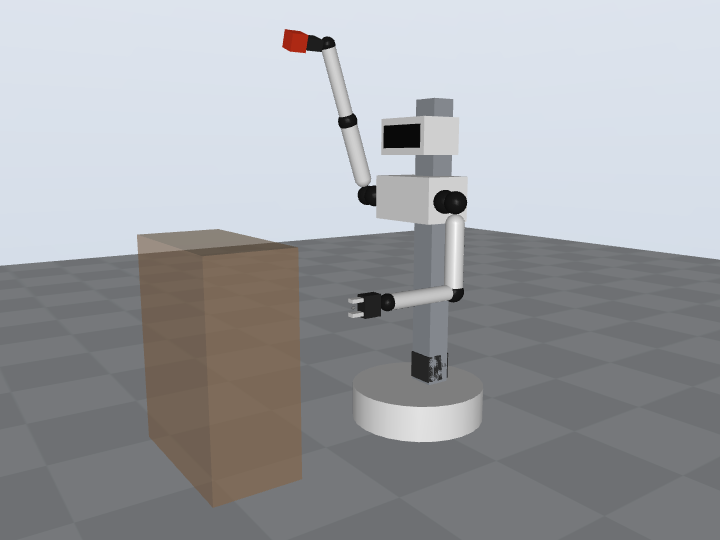
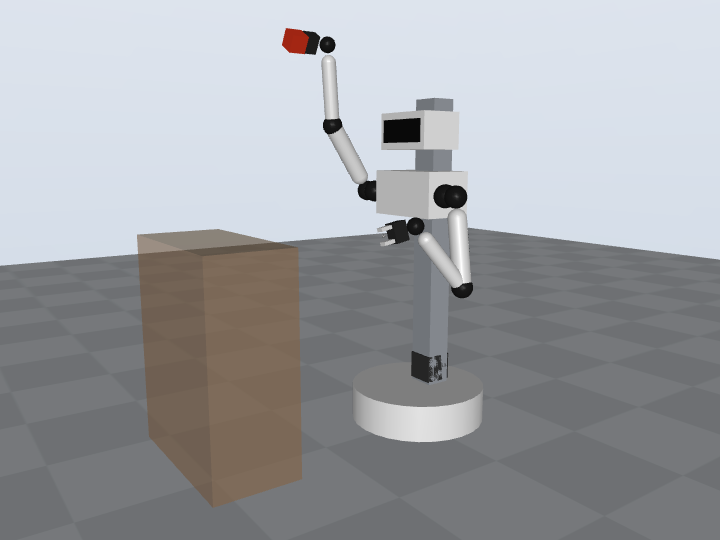
R&D loop 1: collision-aware reach + bimanual study; wrist ±120°; forearm clearance requirement; honest reach 93%
Claude-Session: https://claude.ai/code/session_01RwSoTh3JZTTiPE9Ryxfm6D

Changed region(s): [[0.3972, 0.0593, 0.6722, 0.5926], [0.3972, 0.0296, 0.4278, 0.0593]]

diff --git a/rnd/twin.py b/rnd/twin.py
@@ -49,13 +49,14 @@ def build_xml(d: Design) -> str:
             <body name="fore_{side}" pos="0 0 {-(a.l_upper-0.07)}">
               <joint name="elbow_{side}" axis="0 1 0" range="{JR['elbow'][0]} {JR['elbow'][1]}"/>
               <geom type="sphere" size="0.036" mass="{m['elbow']}" rgba=".1 .1 .1 1"/>
-              <geom type="capsule" fromto="0 0 0 0 0 {-a.l_fore}" size="0.026" mass="{a.bone_mass_fore}" rgba=".9 .9 .9 1"/>
+              <geom type="capsule" fromto="0 0 0 0 0 {-(a.l_fore-0.06)}" size="0.026" mass="{a.bone_mass_fore}" rgba=".9 .9 .9 1"/>
+              <!-- forearm bone ends 60 mm before the wrist axis: CAD requirement so the hand clears ±140° wrist pitch -->
               <body name="wrist_{side}" pos="0 0 {-a.l_fore}">
                 <joint name="wpitch_{side}" axis="0 1 0" range="{-a.wrist_pitch_range_deg} {a.wrist_pitch_range_deg}"/>
                 <geom type="sphere" size="0.028" mass="{m['wrist_pitch']}" rgba=".1 .1 .1 1"/>
                 <body name="hand_{side}" pos="0 0 -0.04">
                   <joint name="wroll_{side}" axis="0 0 1" range="{JR['wroll'][0]} {JR['wroll'][1]}"/>
-                  <geom type="box" size="0.035 0.02 0.03" pos="0 0 -0.03" mass="{m['wrist_roll'] + m['gripper'] + a.gripper_mech_mass + a.wrist_cam_mass}" rgba=".15 .15 .15 1"/>
+                  <geom type="box" size="0.032 0.02 0.025" pos="0 0 -0.035" mass="{m['wrist_roll'] + m['gripper'] + a.gripper_mech_mass + a.wrist_cam_mass}" rgba=".15 .15 .15 1"/>
                   <geom type="box" size="0.006 0.012 0.03" pos="0.022 0 -0.07" mass="0.001" rgba=".9 .9 .9 1"/>
                   <geom type="box" size="0.006 0.012 0.03" pos="-0.022 0 -0.07" mass="0.001" rgba=".9 .9 .9 1"/>
                   <site name="grasp_{side}" pos="0 0 {-(a.l_hand-0.04)}"/>
@@ -80,7 +81,7 @@ def build_xml(d: Design) -> str:
     <material name="g" texture="g" texrepeat="12 12"/></asset>
   <worldbody>
     <light pos="1 -1 3" dir="-.3 .3 -1" diffuse=".8 .8 .8"/>
-    <geom type="plane" size="5 5 .1" material="g"/>
+    <geom type="plane" size="5 5 .1" material="g" contype="0" conaffinity="0"/>
     <geom name="table" type="box" pos="0.75 -0.15 0.37" size="0.15 0.3 0.375" rgba=".6 .45 .3 .35" contype="0" conaffinity="0"/>
     <body name="robot">
       <geom type="cylinder" size="{b.radius} {b.height/2}" pos="0 0 {b.clearance + b.height/2}" mass="{base_m}" rgba=".92 .92 .92 1"/>
@@ -96,6 +97,7 @@ def build_xml(d: Design) -> str:
       </body>
     </body>
   </worldbody>
+  <contact><exclude body1="robot" body2="torso"/></contact>
 </mujoco>"""
 
 
@@ -117,6 +119,7 @@ def margin(poly, p):
 
 
 TARGETS = {
+    "counter, angled 45° grasp (z 0.95)": dict(z=0.95, xs=np.arange(0.30, 0.66, 0.05), axis=(0.7071, 0, -0.7071)),
     "floor pickup (z 0.03, gripper down)": dict(z=0.03, xs=np.arange(0.30, 0.56, 0.05), down=True),
     "dishwasher low rack (z 0.20, down)": dict(z=0.20, xs=np.arange(0.35, 0.66, 0.05), down=True),
     "table top (z 0.78, down)": dict(z=0.78, xs=np.arange(0.30, 0.66, 0.05), down=True),
@@ -193,21 +196,37 @@ def render_pose(d: Design, S, target, path, down=True):
 from scipy.optimize import least_squares  # noqa: E402
 
 
-class Reacher:
-    """Damped least-squares IK (lift + 6 arm joints) with orientation goal."""
+TUCK = {"pitch": 0.0, "roll": math.radians(8), "yaw": 0.0, "elbow": math.radians(-140), "wpitch": math.radians(60), "wroll": 0.0}
 
-    def __init__(self, d: Design):
+
+def tuck(m, dat, side):
+    for j, v in TUCK.items():
+        dat.qpos[m.jnt_qposadr[mujoco.mj_name2id(m, mujoco.mjtObj.mjOBJ_JOINT, f"{j}_{side}")]] = v
+
+
+def in_collision(m, dat, pen=0.002):
+    """True if any robot geoms interpenetrate by more than `pen` (adjacent bodies are filtered by MuJoCo)."""
+    mujoco.mj_collision(m, dat)
+    return any(dat.contact[i].dist < -pen for i in range(dat.ncon))
+
+
+class Reacher:
+    """Bounded least-squares IK (lift + 6 arm joints) with orientation goal and collision rejection."""
+
+    def __init__(self, d: Design, check_collision: bool = True):
         self.m = mujoco.MjModel.from_xml_string(build_xml(d))
         self.d = mujoco.MjData(self.m)
         m = self.m
+        self.check = check_collision
         self.jn = ["lift"] + [f"{j}_r" for j in ("pitch", "roll", "yaw", "elbow", "wpitch", "wroll")]
         ids = [mujoco.mj_name2id(m, mujoco.mjtObj.mjOBJ_JOINT, j) for j in self.jn]
         self.adr = [m.jnt_qposadr[i] for i in ids]
         self.lo = np.array([m.jnt_range[i][0] for i in ids]); self.hi = np.array([m.jnt_range[i][1] for i in ids])
-        self.d.qpos[m.jnt_qposadr[mujoco.mj_name2id(m, mujoco.mjtObj.mjOBJ_JOINT, "elbow_l")]] = math.radians(-90)
+        tuck(m, self.d, "l")
         self.site = mujoco.mj_name2id(m, mujoco.mjtObj.mjOBJ_SITE, "grasp_r")
         self.hand = mujoco.mj_name2id(m, mujoco.mjtObj.mjOBJ_BODY, "hand_r")
         self.robot = mujoco.mj_name2id(m, mujoco.mjtObj.mjOBJ_BODY, "robot")
+        self.rejected = 0
 
     def fk(self, q):
         self.d.qpos[self.adr] = q
@@ -238,6 +257,9 @@ class Reacher:
             r = least_squares(res, q0, bounds=(self.lo, self.hi), xtol=1e-9, ftol=1e-10, max_nfev=1500)
             p, a = self.fk(r.x)
             if np.linalg.norm(p - target) < 0.01 and a @ axis > math.cos(math.radians(20)):
+                if self.check and in_collision(self.m, self.d):
+                    self.rejected += 1
+                    continue
                 sols.append(r.x)
         return sols
 
@@ -246,7 +268,7 @@ def ik_study(d: Design, layouts, ys=np.arange(-0.40, -0.04, 0.075), seeds=3):
     R = Reacher(d)
     out = {}
     for name, t in TARGETS.items():
-        axis = [0, 0, -1.0] if t["down"] else [1.0, 0, 0]
+        axis = list(t["axis"]) if "axis" in t else ([0, 0, -1.0] if t["down"] else [1.0, 0, 0])
         pts = [(x, y, t["z"]) for x in t["xs"] for y in ys]
         hit, best, hs = 0, {k: [] for k in layouts}, []
         for p in pts:
@@ -283,3 +305,46 @@ def render_ik(d: Design, targets, path, layout_r=0.21):
         imageio.imwrite(f, r.render())
         out.append(f)
     return out
+
+
+class BiReacher:
+    """Two-arm IK sharing the lift: both hands to targets with given approach axes, collision-free."""
+
+    def __init__(self, d: Design):
+        self.m = mujoco.MjModel.from_xml_string(build_xml(d)); self.d = mujoco.MjData(self.m); m = self.m
+        self.jn = ["lift"] + [f"{j}_{s}" for s in ("r", "l") for j in ("pitch", "roll", "yaw", "elbow", "wpitch", "wroll")]
+        ids = [mujoco.mj_name2id(m, mujoco.mjtObj.mjOBJ_JOINT, j) for j in self.jn]
+        self.adr = [m.jnt_qposadr[i] for i in ids]
+        self.lo = np.array([m.jnt_range[i][0] for i in ids]); self.hi = np.array([m.jnt_range[i][1] for i in ids])
+        self.site = {s: mujoco.mj_name2id(m, mujoco.mjtObj.mjOBJ_SITE, f"grasp_{s}") for s in "rl"}
+        self.hand = {s: mujoco.mj_name2id(m, mujoco.mjtObj.mjOBJ_BODY, f"hand_{s}") for s in "rl"}
+
+    def solve(self, tr, ar, tl, al, seeds=10, rng=np.random.default_rng(3)):
+        tr, ar, tl, al = map(np.asarray, (tr, ar, tl, al))
+
+        def res(q):
+            self.d.qpos[self.adr] = q; mujoco.mj_kinematics(self.m, self.d)
+            out = []
+            for s, t, a in (("r", tr, ar), ("l", tl, al)):
+                out += list(self.d.site_xpos[self.site[s]] - t) + list(0.12 * (-self.d.xmat[self.hand[s]].reshape(3, 3)[:, 2] - a))
+            return np.array(out)
+        for _ in range(seeds):
+            r = least_squares(res, rng.uniform(self.lo, self.hi), bounds=(self.lo, self.hi), max_nfev=3000)
+            e = res(r.x)
+            if np.linalg.norm(e[0:3]) < 0.01 and np.linalg.norm(e[6:9]) < 0.01 and \
+               np.linalg.norm(e[3:6]) < 0.12 * 0.35 and np.linalg.norm(e[9:12]) < 0.12 * 0.35 and not in_collision(self.m, self.d):
+                return r.x
+        return None
+
+
+BIMANUAL = {  # (right target, right approach axis, left target, left approach axis)
+    "hold a box at the table (hands 24 cm apart, z 0.85)": ((0.42, -0.12, 0.85), (0, 1, 0), (0.42, 0.12, 0.85), (0, -1, 0)),
+    "hand-to-hand at chest height (handover)": ((0.38, -0.02, 0.80), (0, 1, 0), (0.38, 0.06, 0.80), (0, -1, 0)),
+    "lift a box from the floor (hands 30 cm apart, z 0.10)": ((0.42, -0.15, 0.10), (0, 1, 0), (0.42, 0.15, 0.10), (0, -1, 0)),
+    "fold a towel on the table (hands 40 cm apart, down, z 0.80)": ((0.45, -0.20, 0.80), (0, 0, -1), (0.45, 0.20, 0.80), (0, 0, -1)),
+}
+
+
+def bimanual_study(d: Design):
+    B = BiReacher(d)
+    return {k: B.solve(*v) is not None for k, v in BIMANUAL.items()}

diff --git a/rnd/run_all.py b/rnd/run_all.py
@@ -28,6 +28,10 @@ def twin_report(d=BASELINE, quick=False):
         L.append(f"| {k} | {v['coverage']:.0%} | " + "; ".join(f"{n}: {mm*1000:.0f} / {9.81*mm/v['com_h']:.1f}" for n, mm in v["margin"].items()) + " |")
     imgs = twin.render_ik(d, [("floor", (0.40, -0.20, 0.03), True), ("counter", (0.50, -0.20, 0.95), True),
                               ("high_shelf", (0.40, -0.20, 1.40), False)], str(IMG / "twin"))
+    bi = twin.bimanual_study(d)
+    res["_bimanual"] = bi
+    L += ["", "## Two-handed tasks (shared lift, both arms, collision-free)", "", "| Task | Feasible |", "|---|---|"]
+    L += [f"| {k} | {'✅' if ok else '❌'} |" for k, ok in bi.items()]
     L += [""] + [f"![{Path(p).stem}](img/{Path(p).name})" for p in imgs]
     return "\n".join(L), res
 
@@ -40,12 +44,14 @@ def scorecard(d, res):
     _, _, avg_w, hours = budget.power_budget(d)
     loads = joint_loads(d, 0.45)
     jm = min(capacity(d, j)[2] / loads[j]["static"] for j in ("shoulder_pitch", "shoulder_roll", "elbow", "wrist_pitch"))
+    bi = res.pop("_bimanual", {})
     chosen = next(iter(next(iter(res.values()))["margin"]))
     cov = np.mean([v["coverage"] for v in res.values()])
     tip = min(v["margin"][chosen] for v in res.values())
     other_bom = 1250   # ESTIMATE: wheels, battery, cameras, lidar, electronics, structure, teaching rig (see V4_CONCEPT §3, T01)
     rows = [
-        ("R1 reach coverage (mean of 6 target sets)", f"{cov:.0%}", "≥ 95 %", cov >= 0.95),
+        ("R1 reach coverage, collision-free (mean of 7 target sets)", f"{cov:.0%}", "≥ 95 %", cov >= 0.95),
+        ("R2 two-handed tasks feasible", f"{sum(bi.values())}/{len(bi)}", "all", all(bi.values())),
         ("R12 min tip-over margin, 1 kg at reach", f"{tip*1000:.0f} mm", "≥ 50 mm", tip >= 0.05),
         ("R2 min joint margin at spec load (rated)", f"{jm:.2f}×", "≥ 1.5×", jm >= 1.5),
         ("R3 upper module mass", f"{tot['upper']:.1f} kg", "≤ 10 kg", tot["upper"] <= 10),

diff --git a/rnd/params.py b/rnd/params.py
@@ -53,7 +53,7 @@ class Arm:
     gripper_mech_mass: float = 0.10
     wrist_cam_mass: float = 0.05
     payload: float = 1.0           # kg at the grasp point (R2)
-    wrist_pitch_range_deg: float = 140.0   # reach sweep: ±110 -> ±140 (free win)
+    wrist_pitch_range_deg: float = 120.0   # ±140 folded the hand into the forearm (collision study); ±120 is realistic and reaches more
 
 
 @dataclass

diff --git a/docs/RND_PLAN.md b/docs/RND_PLAN.md
@@ -65,7 +65,7 @@ Each scheduled run (and any interactive session) does one **loop**:
 | D2 | **Base: 4 × 6" omni, one wheel pointing forward, wheels at R 0.21 m, Ø500 shell.** *Reversed from 3-wheel kiwi:* kiwi tip margin was ~35–46 mm vs 66–82 mm | Changed 2026-11-25 | [twin](rnd/twin.md) |
 | D2b | Cross thresholds at a 45° heading; cap base acceleration at 1.0 m/s² with arms parked and 0.5 m/s² while manipulating; position from optical flow + IMU + lidar | New | [drivetrain](rnd/drivetrain.md) |
 | D3 | Joint cartridges: kinematic coupling + bayonet + captive screw; M (GIM6010-8 / DM-J4310) and S (STS3215); 24 V CAN 1 Mbps / 12 V TTL | Holding | [T01](rnd/T01_specs.md) |
-| D4 | **Arm: 0.30 + 0.28 + 0.13 m, wrist ±140°.** Shoulder pitch GIM × 2.5 belt + 85 % spring, roll GIM × 3, upper-arm yaw DM-J4310, elbow GIM × 2, wrist pitch **DM-J4310**, wrist roll and gripper STS3215. *Changed* from 0.25 + 0.23, ±110°, wrist STS (reach coverage 31 % → 100 %; STS wrist was under-rated) | Changed 2026-11-25 | [arm sizing](rnd/arm_sizing.md), [twin](rnd/twin.md) |
+| D4 | **Arm: 0.30 + 0.28 + 0.13 m, wrist ±120°** (loop 1: ±140° folded the hand into the forearm; ±120° gives more collision-free reach). **CAD requirement:** forearm bone ends ≥ 60 mm before the wrist axis. Shoulder pitch GIM × 2.5 belt + 85 % spring, roll GIM × 3, upper-arm yaw DM-J4310, elbow GIM × 2, wrist pitch **DM-J4310**, wrist roll and gripper STS3215. *Changed* from 0.25 + 0.23, ±110°, wrist STS (reach coverage 31 % → 100 %; STS wrist was under-rated) | Changed 2026-11-25 | [arm sizing](rnd/arm_sizing.md), [twin](rnd/twin.md) |
 | D5 | **Lift: shoulder height 0.35–1.05 m** (0.70 m travel); belt + stepper, with a brake or counterbalance (study pending) | Range changed (was 0.40–0.95) | [twin](rnd/twin.md) |
 | D6 | Toolchain: build123d CAD, MuJoCo twin generated from `rnd/params.py`, Blender renders | Holding | `rnd/` |
 | D7 | **Power bus 24 V (6S Li-ion)**, replacing 48 V | Holding | [T01](rnd/T01_specs.md) |
@@ -74,7 +74,8 @@ Each scheduled run (and any interactive session) does one **loop**:
 
 Done so far: T01 specs ✅, toolchain v0 (`rnd/`) ✅, budgets v0 ✅, drivetrain v0 ✅, twin v0 reach and tip-over ✅, arm sizing v0 ✅.
 
-1. **Twin: collisions.** Add self-collision and base collision to the reach study; two-arm workspace; a bimanual check (both hands meeting at table centre).
+1. ~~Twin: collisions~~ ✅ loop 1: collision-free IK, wrist ±120°, bimanual 4/4.
+1b. **Counter top-down reach (62 %)**: evaluate a **two-stage telescoping spine** (forklift-mast style) that reaches shoulder 1.25 m while staying ≤ 1.1 m long for carrying; compare with a taller single spine and a higher shoulder mount. Pick by reach, carry and mass.
 2. **Cartridge standard v0 CAD** (build123d): M and S cartridges, kinematic coupling + bayonet + detent + connector + cable path; tolerance-coupon prints. First find the GIM6010-8 mounting drawing.
 3. **Arm CAD v0:** bones with printed belt reductions (2–3:1), shoulder spring-assist module, wrist, gripper with camera.
 4. **Base CAD v0:** 4-wheel diamond chassis, wheel cartridges, slide-out battery, upper/base coupling + cam lever + blind-mate connector, handles, bumper light.

diff --git a/docs/rnd/twin.md b/docs/rnd/twin.md
@@ -1,16 +1,25 @@
 # Simulation twin: reach and tip-over (auto-generated by `python -m rnd.run_all`)
 
-Model generated from `rnd/params.py`: arm 0.3+0.28+0.13 m, wrist ±140°, shoulder height 0.35–1.05 m, payload 1.0 kg in the right hand, left arm tucked. Reach = IK (lift + 6 joints) to within 1 cm and 20° of the required gripper direction. Grid: x = 0.30–0.65 m from the robot centre (base edge at 0.25 m), y across the right arm's side.
+Model generated from `rnd/params.py`: arm 0.3+0.28+0.13 m, wrist ±120°, shoulder height 0.35–1.05 m, payload 1.0 kg in the right hand, left arm tucked. Reach = IK (lift + 6 joints) to within 1 cm and 20° of the required gripper direction. Grid: x = 0.30–0.65 m from the robot centre (base edge at 0.25 m), y across the right arm's side.
 
 | Target | Reach coverage | Tip margin per layout (mm / max base accel m/s²) |
 |---|---|---|
-| floor pickup (z 0.03, gripper down) | 100% | X wheel-fwd R.21 (chosen): 71 / 2.6; X edge-fwd R.21: 71 / 2.6; kiwi R.21 (rejected): 39 / 1.4 |
-| dishwasher low rack (z 0.20, down) | 94% | X wheel-fwd R.21 (chosen): 66 / 2.1; X edge-fwd R.21: 59 / 1.9; kiwi R.21 (rejected): 35 / 1.1 |
-| table top (z 0.78, down) | 95% | X wheel-fwd R.21 (chosen): 66 / 1.5; X edge-fwd R.21: 59 / 1.3; kiwi R.21 (rejected): 35 / 0.8 |
-| counter (z 0.95, down) | 95% | X wheel-fwd R.21 (chosen): 66 / 1.4; X edge-fwd R.21: 59 / 1.2; kiwi R.21 (rejected): 35 / 0.7 |
-| shelf (z 1.20, horizontal) | 100% | X wheel-fwd R.21 (chosen): 74 / 1.4; X edge-fwd R.21: 73 / 1.4; kiwi R.21 (rejected): 41 / 0.8 |
-| high shelf (z 1.40, horizontal) | 100% | X wheel-fwd R.21 (chosen): 82 / 1.4; X edge-fwd R.21: 84 / 1.5; kiwi R.21 (rejected): 46 / 0.8 |
+| counter, angled 45° grasp (z 0.95) | 100% | X wheel-fwd R.21 (chosen): 70 / 1.5; X edge-fwd R.21: 66 / 1.4; kiwi R.21 (rejected): 39 / 0.8 |
+| floor pickup (z 0.03, gripper down) | 100% | X wheel-fwd R.21 (chosen): 76 / 2.7; X edge-fwd R.21: 75 / 2.7; kiwi R.21 (rejected): 43 / 1.5 |
+| dishwasher low rack (z 0.20, down) | 94% | X wheel-fwd R.21 (chosen): 71 / 2.2; X edge-fwd R.21: 63 / 1.9; kiwi R.21 (rejected): 39 / 1.2 |
+| table top (z 0.78, down) | 95% | X wheel-fwd R.21 (chosen): 71 / 1.4; X edge-fwd R.21: 63 / 1.3; kiwi R.21 (rejected): 39 / 0.8 |
+| counter (z 0.95, down) | 62% | X wheel-fwd R.21 (chosen): 70 / 1.4; X edge-fwd R.21: 63 / 1.2; kiwi R.21 (rejected): 39 / 0.8 |
+| shelf (z 1.20, horizontal) | 100% | X wheel-fwd R.21 (chosen): 80 / 1.5; X edge-fwd R.21: 76 / 1.4; kiwi R.21 (rejected): 47 / 0.9 |
+| high shelf (z 1.40, horizontal) | 100% | X wheel-fwd R.21 (chosen): 87 / 1.5; X edge-fwd R.21: 88 / 1.5; kiwi R.21 (rejected): 51 / 0.9 |
+
+## Two-handed tasks (shared lift, both arms, collision-free)
+
+| Task | Feasible |
+|---|---|
+| hold a box at the table (hands 24 cm apart, z 0.85) | ✅ |
+| hand-to-hand at chest height (handover) | ✅ |
+| lift a box from the floor (hands 30 cm apart, z 0.10) | ✅ |
+| fold a towel on the table (hands 40 cm apart, down, z 0.80) | ✅ |
 
 ![twin_floor](img/twin_floor.png)
-![twin_counter](img/twin_counter.png)
 ![twin_high_shelf](img/twin_high_shelf.png)

diff --git a/docs/RND_LOG.md b/docs/RND_LOG.md
@@ -50,3 +50,22 @@ Newest entries at the bottom. Each entry: date (UTC), backlog item, what was don
 **Open for future loops:** the reach study has no self/base collision checks yet (queue #1); omni-roller threshold behaviour needs a physical test; rolling resistance and traction on carpet are estimates.
 
 **Next:** queue #1, then cartridge CAD.
+
+## 2026-11-25: loop 1, collision-aware reach + bimanual
+
+**Picked:** queue #1. The 97 % reach figure ignored self-collision, which was the biggest unverified claim.
+
+- Added collision checking to the IK study:
+  - all arm geoms vs base, spine, torso, head and the other arm
+  - the idle arm in a realistic tuck pose
+  - explicit exclusion of the torso/spine slide pair (MuJoCo treats the fixed robot body as world, so its parent filter doesn't apply)
+- **Result with collisions on:** table 95 % → **32 %**, counter 95 % → **20 %**. The only cause: the hand folding into the forearm at > 90° wrist pitch.
+- **Fixes:**
+  - The model's forearm bone now ends 60 mm before the wrist axis (**this is a CAD requirement**).
+  - Wrist range ±140° → **±120°**. A sweep showed ±120° beats ±140° (table 50 % → 100 %) because it avoids folded solutions; ±140° was physically unrealistic anyway.
+- **Added:**
+  - an angled 45° counter grasp target (100 %)
+  - a **two-arm IK study** (shared lift, collision-free): hold a box at the table, handover, lift a box from the floor, fold a towel → **4/4 feasible**
+- **Scorecard:** reach coverage (now collision-free, 7 target sets) **93 %** vs 95 % target. It's below target only because of **top-down counter grasps at 62 %**. Tip margin min 70 mm, all other rows unchanged.
+- **Considered, not taken (yet):** lift max 1.25 m gives 100 % top-down counter reach, but the spine becomes 1.26 m long (harder to carry). New queue item 1b: a two-stage telescoping spine.
+- **Next:** 1b or cartridge CAD (queue #2). Cartridge CAD needs the GIM6010-8 mounting drawing first.

diff --git a/docs/rnd/SCORECARD.md b/docs/rnd/SCORECARD.md
@@ -2,8 +2,9 @@
 
 | Metric | Now | Target | |
 |---|---|---|---|
-| R1 reach coverage (mean of 6 target sets) | 97% | ≥ 95 % | ✅ |
-| R12 min tip-over margin, 1 kg at reach | 66 mm | ≥ 50 mm | ✅ |
+| R1 reach coverage, collision-free (mean of 7 target sets) | 93% | ≥ 95 % | ❌ |
+| R2 two-handed tasks feasible | 4/4 | all | ✅ |
+| R12 min tip-over margin, 1 kg at reach | 70 mm | ≥ 50 mm | ✅ |
 | R2 min joint margin at spec load (rated) | 1.70× | ≥ 1.5× | ✅ |
 | R3 upper module mass | 9.5 kg | ≤ 10 kg | ✅ |
 | R3 base module mass | 5.8 kg | ≤ 6 kg | ✅ |
